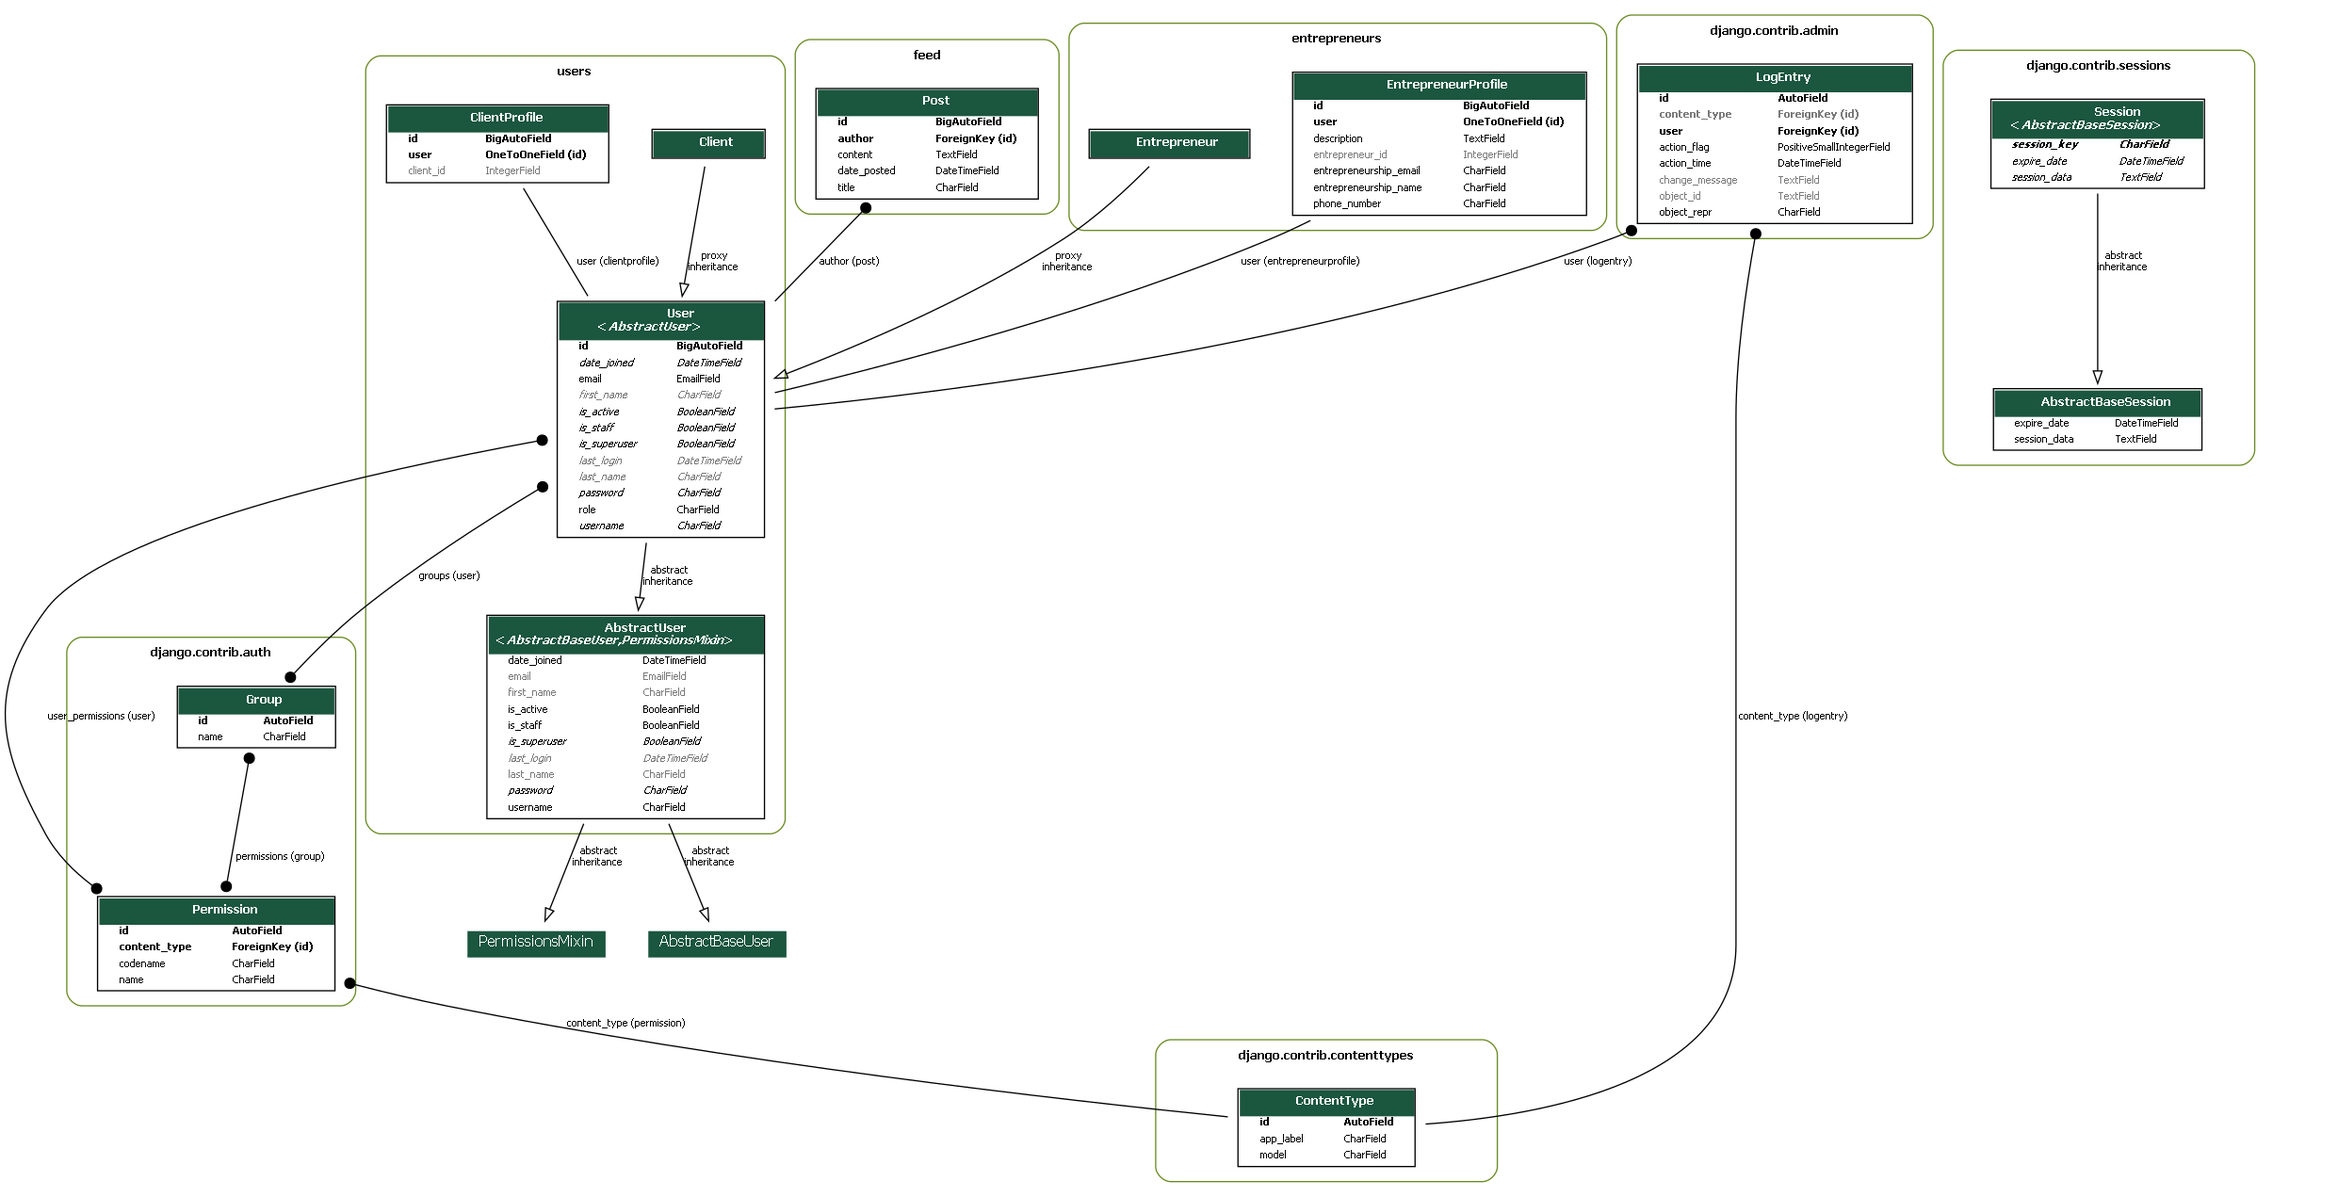
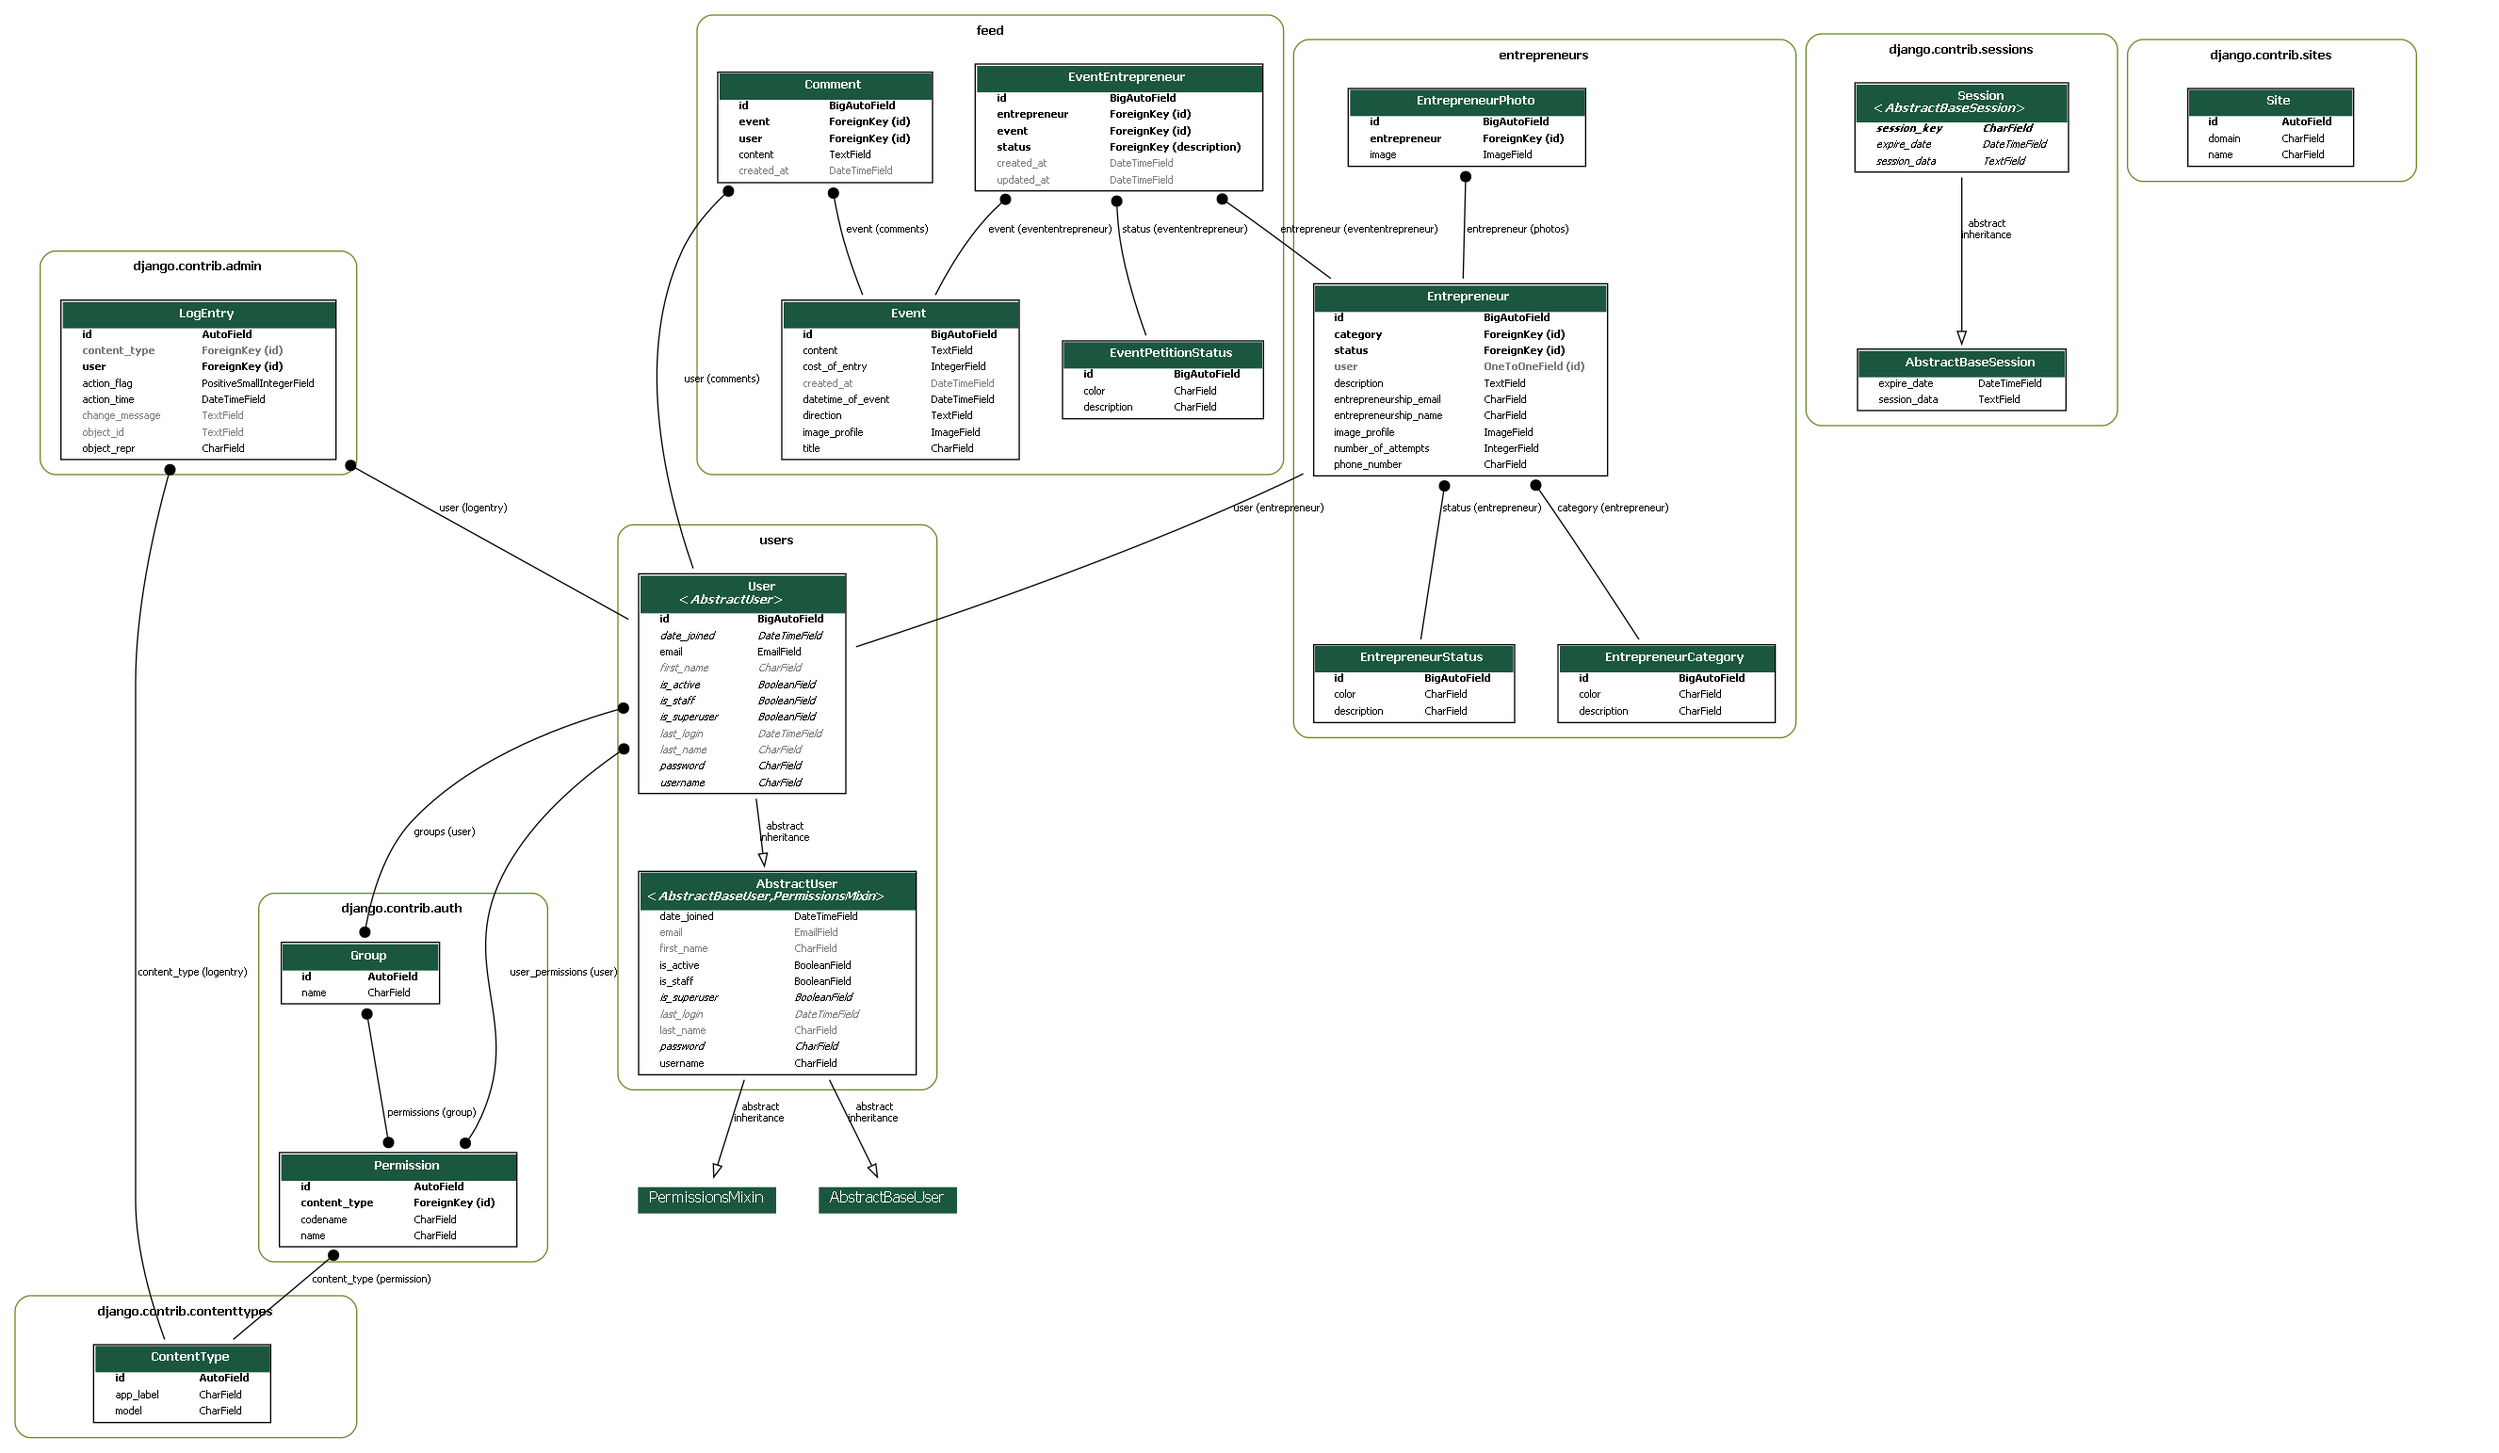
fix: update Dockerfile to run CMD instead of sh file, update data model image and readme

diff --git a/rafaela_emprende/settings.py b/rafaela_emprende/settings.py
@@ -175,21 +175,24 @@ if USE_S3:
     AWS_S3_DEFAULT_OVERWRITE = False
     AWS_DEFAULT_ACL = None
     DEFAULT_FILE_STORAGE = "storages.backends.s3boto3.S3Boto3Storage"
-    STATICFILES_DIRS = (BASE_DIR / "static", )
+    STATICFILES_DIRS = (BASE_DIR / "static",)
 else:
-    if os.environ.get("RUNNING_IN_DOCKER") == "TRUE":
-        STATIC_URL = "/staticfiles/"
-        STATIC_ROOT = BASE_DIR / ".." / ".." / "staticfiles"
-        MEDIA_URL = "/media/"
-        MEDIA_ROOT = BASE_DIR / ".." / ".." / "media"
-        STATICFILES_DIRS = (BASE_DIR / ".." / ".." / "static", )
-    else:
-        STATIC_URL = "/staticfiles/"
-        STATIC_ROOT = BASE_DIR / "staticfiles"
-        MEDIA_URL = "/media/"
-        MEDIA_ROOT = BASE_DIR / "media"
-        STATICFILES_DIRS = (BASE_DIR / "static", )
-
+    # if os.environ.get("RUNNING_IN_DOCKER") == "TRUE":
+    #     STATIC_URL = "/staticfiles/"
+    #     STATIC_ROOT = BASE_DIR / ".." / ".." / "staticfiles"
+    #     MEDIA_URL = "/media/"
+    #     MEDIA_ROOT = BASE_DIR / ".." / ".." / "media"
+    #     STATICFILES_DIRS = (BASE_DIR / ".." / ".." / "static",)
+    #     print('STATIC_ROOT' + STATIC_ROOT)
+    #     print('MEDIA_ROOT' + MEDIA_ROOT)
+    #     print('STATICFILES_DIRS' + STATICFILES_DIRS)
+    # else:
+    # TODO: Check if it has to go up 2 directories
+    STATIC_URL = "/staticfiles/"
+    STATIC_ROOT = BASE_DIR / "staticfiles"
+    MEDIA_URL = "/media/"
+    MEDIA_ROOT = BASE_DIR / "media"
+    STATICFILES_DIRS = (BASE_DIR / "static",)
 
 
 # Default primary key field type

diff --git a/README.md b/README.md
@@ -28,6 +28,29 @@ El modelo de datos de ésta App es el siguiente:
 <br />
 <br />
 
+## Steps to run the App with Docker
+1. Go to the root directory of this repository
+```console
+$ cd ../ ... /TP_IW_Cassina_Cominotti_Giay_Knoll
+```
+
+2. Build a Docker Image called "app_grupo1"
+```console
+$ docker build --no-cache -t app_grupo1 .
+```
+
+3. Create a container called "web_grupo1" with the previous image "app_grupo1" 
+and then mount 1 volume for the DB, and then another for the media if you have 
+some local images
+```console
+$ docker create --name web_grupo1 -p 8000:8000 -v /data/:/data -v /media/:/media app_grupo1
+```
+
+4. That's it! Now just run the container!!
+```console
+$ docker start web_grupo1
+```
+
 ## Steps to clone this repository with Conda
 1. Clone this Django application with the optional step of creating a virtual environment.
 ```console
